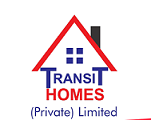
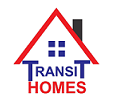
new update

Changed region(s): [[0.1034, 0.0606, 0.8534, 1.0], [0.4138, 0.3939, 0.569, 0.5758], [0.8276, 0.9697, 1.0, 1.0]]

diff --git a/lib/screens/main/components/recommended_list.dart b/lib/screens/main/components/recommended_list.dart
@@ -6,16 +6,16 @@ import 'package:flutter/material.dart';
 
 class RecommendedList extends StatelessWidget {
   List<Product> products = [
-    Product('assets/bag_1.png', 'Bag', 'Beautiful bag', 2.33),
-    Product('assets/cap_5.png', 'Cap', 'Cap with beautiful design', 10),
+    Product('assets/kitchen-1.jpg', 'Bag', 'Beautiful bag', 2.33),
+    Product('assets/bed-2.jpg', 'Cap', 'Cap with beautiful design', 10),
     Product('assets/jeans_1.png', 'Jeans', 'Jeans for you', 20),
     Product('assets/womanshoe_3.png', 'Woman Shoes',
         'Shoes with special discount', 30),
     Product('assets/bag_10.png', 'Bag Express', 'Bag for your shops', 40),
-    Product('assets/jeans_3.png', 'Jeans', 'Beautiful Jeans', 102.33),
+    //Product('assets/jeans_3.png', 'Jeans', 'Beautiful Jeans', 102.33),
     Product('assets/ring_1.png', 'Silver Ring', 'Description', 52.33),
-    Product('assets/shoeman_7.png', 'Shoes', 'Description', 62.33),
-    Product('assets/headphone_9.png', 'Headphones', 'Description', 72.33),
+    //Product('assets/shoeman_7.png', 'Shoes', 'Description', 62.33),
+    //Product('assets/headphone_9.png', 'Headphones', 'Description', 72.33),
   ];
 
   @override
@@ -51,7 +51,7 @@ class RecommendedList extends StatelessWidget {
             child: MasonryGridView.count(
               physics: NeverScrollableScrollPhysics(),
               padding: EdgeInsets.zero,
-              crossAxisCount: 4,
+              crossAxisCount: 3,
               itemCount: products.length,
               itemBuilder: (BuildContext context, int index) => new ClipRRect(
                 borderRadius: BorderRadius.all(Radius.circular(5.0)),

diff --git a/lib/screens/main/components/product_list.dart b/lib/screens/main/components/product_list.dart
@@ -160,13 +160,13 @@ class ProductCard extends StatelessWidget {
                               bottomLeft: Radius.circular(10)),
                           color: Color.fromRGBO(224, 69, 10, 1),
                         ),
-                        child: Text(
+                        /*child: Text(
                           '\$${product.price}',
                           style: TextStyle(
                               color: Colors.white,
                               fontSize: 18,
                               fontWeight: FontWeight.bold),
-                        ),
+                        ),*/
                       ),
                     ),
                   ],
@@ -174,7 +174,7 @@ class ProductCard extends StatelessWidget {
               ],
             ),
           ),
-          Positioned(
+          /*Positioned(
             child: Hero(
               tag: product.image,
               child: Image.asset(
@@ -184,7 +184,7 @@ class ProductCard extends StatelessWidget {
                 fit: BoxFit.contain,
               ),
             ),
-          ),
+          ),*/
         ],
       ),
     );

diff --git a/lib/screens/main/components/tab_view.dart b/lib/screens/main/components/tab_view.dart
@@ -1,10 +1,7 @@
-import 'package:ecommerce_int2/models/category.dart';
 import 'package:flutter/material.dart';
-import 'category_card.dart';
-import 'recommended_list.dart';
 
 class TabView extends StatelessWidget {
-  List<Category> categories = [
+  /*List<Category> categories = [
     Category(
       Color(0xffFCE183),
       Color(0xffF68D7F),
@@ -41,7 +38,7 @@ class TabView extends StatelessWidget {
       'Appliances',
       'assets/jeans_5.png',
     ),
-  ];
+  ];*/
 
   final TabController tabController;
 
@@ -52,7 +49,9 @@ class TabView extends StatelessWidget {
   @override
   Widget build(BuildContext context) {
     print(MediaQuery.of(context).size.height / 9);
-    return TabBarView(
+    return Scaffold();
+  }
+  /*return TabBarView(
         physics: NeverScrollableScrollPhysics(),
         controller: tabController,
         children: <Widget>[
@@ -102,5 +101,5 @@ class TabView extends StatelessWidget {
             Flexible(child: RecommendedList())
           ]),
         ]);
-  }
+  }*/
 }

diff --git a/lib/screens/product/components/product_card.dart b/lib/screens/product/components/product_card.dart
@@ -15,7 +15,7 @@ class ProductCard extends StatelessWidget {
             width: MediaQuery.of(context).size.width / 2 - 29,
             decoration: BoxDecoration(
                 borderRadius: BorderRadius.all(Radius.circular(10)),
-                color: Color(0xfffbd085).withOpacity(0.46)),
+                color: Color.fromRGBO(251, 208, 133, 1).withOpacity(0.46)),
             child: Column(
               crossAxisAlignment: CrossAxisAlignment.end,
               children: <Widget>[
@@ -25,9 +25,9 @@ class ProductCard extends StatelessWidget {
                     padding: EdgeInsets.all(16.0),
                     width: MediaQuery.of(context).size.width / 2 - 64,
                     height: MediaQuery.of(context).size.width / 2 - 64,
-                    child: Image.asset(
+                    /*child: Image.asset(
                       product.image,
-                    ),
+                    ),*/
                   ),
                 ),
                 Flexible(

diff --git a/lib/screens/auth/welcome_back_page.dart b/lib/screens/auth/welcome_back_page.dart
@@ -17,15 +17,15 @@ class _WelcomeBackPageState extends State<WelcomeBackPage> {
     Widget company_logo = Center(
       child: CircleAvatar(
         backgroundColor: Colors.transparent,
-        radius: 80.0,
+        radius: 50.0,
         child: ClipOval(
           child: Image.asset(
             'assets/transithomes-1.png',
-            width:
+            /* width:
                 150.0, // Adjust the width to fit the circle's diameter (2 * maxRadius)
             height:
                 150.0, // Adjust the height to fit the circle's diameter (2 * maxRadius)
-            fit: BoxFit.cover,
+            fit: BoxFit.cover,*/
           ),
         ),
       ),

diff --git a/web/index.html b/web/index.html
@@ -23,13 +23,13 @@
   <!-- iOS meta tags & icons -->
   <meta name="apple-mobile-web-app-capable" content="yes">
   <meta name="apple-mobile-web-app-status-bar-style" content="black">
-  <meta name="apple-mobile-web-app-title" content="flutter_ecommerce_template">
+  <meta name="apple-mobile-web-app-title" content="Student-Accomodation">
   <link rel="apple-touch-icon" href="icons/Icon-192.png">
 
   <!-- Favicon -->
   <link rel="icon" type="image/png" href="favicon.png"/>
 
-  <title>flutter_ecommerce_template</title>
+  <title>Student-Accomodation</title>
   <link rel="manifest" href="manifest.json">
 
   <script>

diff --git a/lib/screens/product/product_page.dart b/lib/screens/product/product_page.dart
@@ -113,7 +113,7 @@ class _ProductPageState extends State<ProductPage> {
                         width: 90,
                         height: 40,
                         decoration: BoxDecoration(
-                          color: Color.fromRGBO(250, 249, 248, 1),
+                          color: Color.fromRGBO(253, 192, 84, 1),
                           borderRadius: BorderRadius.circular(4.0),
                           border:
                               Border.all(color: Color(0xFFFFFFFF), width: 0.5),

diff --git a/lib/screens/main/components/custom_bottom_bar.dart b/lib/screens/main/components/custom_bottom_bar.dart
@@ -35,6 +35,12 @@ class CustomBottomBar extends StatelessWidget {
             },
           ),
           IconButton(
+            icon: Image.asset('assets/icons/settings.png'),
+            onPressed: () {
+              controller.animateTo(2);
+            },
+          ),
+          IconButton(
             icon: Image.asset('assets/icons/profile_icon.png'),
             onPressed: () {
               controller.animateTo(3);

diff --git a/lib/app_properties.dart b/lib/app_properties.dart
@@ -3,7 +3,7 @@ import 'package:flutter/material.dart';
 const Color yellow = Color(0xffFDC054);
 const Color mediumYellow = Color(0xffFDB846);
 const Color darkYellow = Color(0xffE99E22);
-const Color transparentYellow = Color.fromRGBO(195, 165, 180, 0.686);
+const Color transparentYellow = Color.fromARGB(173, 151, 85, 118);
 const Color darkGrey = Color(0xff202020);
 
 const LinearGradient mainButton = LinearGradient(colors: [
